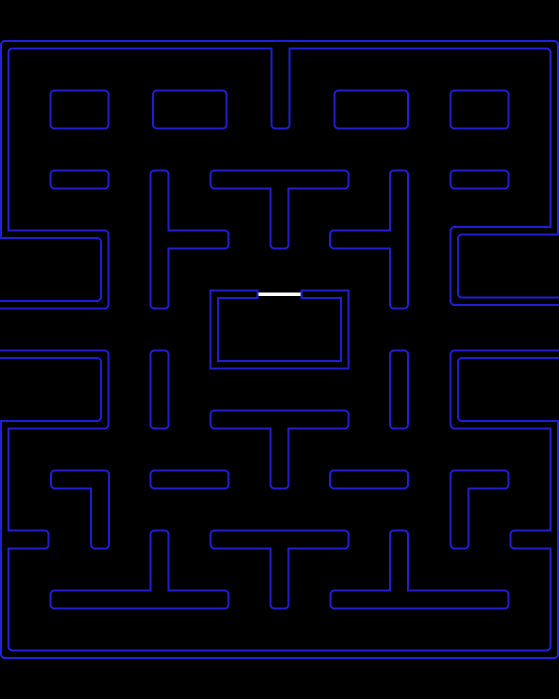
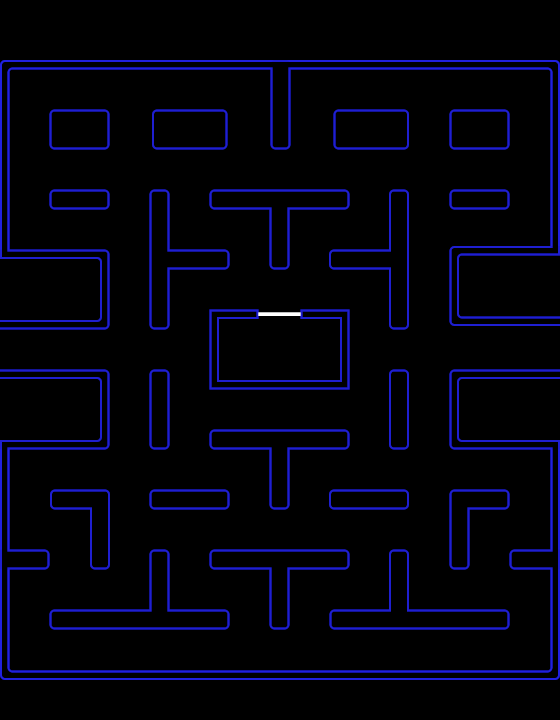
Updated level fields and board structure

diff --git a/level.py b/level.py
@@ -21,16 +21,17 @@ class Level:
         "&": Energizer
     }
 
-    def __init__(self, level_id, background_name, structure, cells_per_plane, dimensions_in_pixels, cell_size_in_pixels,
-                 default_cell, offset):
-        self.id = level_id
+    def __init__(self, background_name, dimensions_in_pixels, structure, cells_per_plane, cell_size_in_pixels,
+                 pacman_start_cell, ghost_home_cells, ghost_target_cells, ghost_start_cell):
         self.background_name = background_name
+        self.dimensions_in_pixels = dimensions_in_pixels
         self.structure = structure
         self.cells_per_plane = cells_per_plane
-        self.dimensions_in_pixels = dimensions_in_pixels
         self.cell_size_in_pixels = cell_size_in_pixels
-        self.default_cell = default_cell
-        self.offset = offset
+        self.pacman_start_cell = pacman_start_cell
+        self.ghost_home_cells = ghost_home_cells
+        self.ghost_target_cells = ghost_target_cells
+        self.ghost_start_cell = ghost_start_cell
 
         self.state = None
         self.surface = None
@@ -73,17 +74,16 @@ class Level:
 
     def get_cell_position(self, cell_pos):
         x, y = cell_pos
-        x_offset, y_offset = self.offset
         cell_size = self.cell_size_in_pixels
 
-        x_position = x * cell_size + cell_size / 2 + x_offset
-        y_position = y * cell_size + cell_size / 2 + y_offset
+        x_position = x * cell_size + cell_size / 2
+        y_position = y * cell_size + cell_size / 2
 
         return x_position, y_position
 
     def _get_char_at_position(self, pos):
         x, y = pos
-        x_length = self.cells_per_plane[0]
-        pos_in_structure = y * (x_length+1) + x
+        x_length, _ = self.cells_per_plane
+        pos_in_structure = y * (x_length + 1) + x
 
         return self.structure[pos_in_structure]

diff --git a/utils/level_utils.py b/utils/level_utils.py
@@ -10,14 +10,6 @@ class LevelUtils:
     PATH_TO_LEVEL_FILES = os.path.join(os.getcwd(), 'resources', 'levels')
     LEVEL_FILE_EXTENSION = "json"
 
-    CHAR_TO_CELL_TYPE_MAP = {
-        "|": "add_wall",
-        "-": "add_space",
-        "*": "add_dot",
-        "&": "add_energizer",
-        "+": "add_teleport"
-    }
-
     @classmethod
     def get_level(cls, level_id):
         return cls._from_level_id(level_id)
@@ -26,17 +18,18 @@ class LevelUtils:
     def _from_level_id(cls, level_id):
         level_data = cls._get_level_data(cls._get_level_path(level_id))
 
-        level_id = level_data["id"]
         background_name = level_data["backgroundName"]
+        dimensions_in_pixels = level_data["dimensionsInPixels"]
         structure = level_data["structure"]
         cells_per_plane = level_data["cellsPerPlane"]
-        dimensions_in_pixels = level_data["dimensionsInPixels"]
+        pacman_start_cell = level_data["pacmanStartCell"]
         cell_size_in_pixels = level_data["cellSizeInPixels"]
-        default_cell = level_data["defaultCell"]
-        offset = level_data["offset"]
+        ghost_home_cells = level_data["ghostHomeCells"]
+        ghost_target_cells = level_data["ghostTargetCells"]
+        ghost_start_cell = level_data["ghostStartCell"]
 
-        return Level(level_id, background_name, structure, cells_per_plane, dimensions_in_pixels, cell_size_in_pixels,
-                     default_cell, offset)
+        return Level(background_name, dimensions_in_pixels, structure, cells_per_plane, cell_size_in_pixels,
+                     pacman_start_cell, ghost_home_cells, ghost_target_cells, ghost_start_cell)
 
     @classmethod
     def _get_level_data(cls, path):

diff --git a/pacman.py b/pacman.py
@@ -39,7 +39,7 @@ class Pacman(MovableEntity):
         self.direction = self.DEFAULT_DIRECTION
         self._speed = self.DEFAULT_PACMAN_MOVE_TIME
 
-        self.cell = self.state.level.default_cell
+        self.cell = self.state.level.pacman_start_cell
         self._update_position(self.state.level.get_cell_position(self.cell))
         self._last_icon_update = time.time()
 
